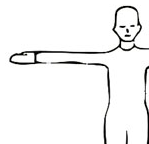
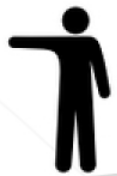
extended pretzel

diff --git a/drums/warmup.md b/drums/warmup.md
@@ -30,13 +30,15 @@ Stretch your arms in front, holding two sticks. Bend your wrists down and up con
 
 Stretch your arm to the side, holding two sticks, extended (not parallel). Rotate them like a propeller in one direction, than other.
 
-<img src="/img/propeller.jpg" />
+<img src="/img/propeller.png" />
 
 ### 5. Both Arms
 
 This is an extension of “the Pretzel”. After Pretzel stretch, lift your arms up vertically, then bow the elbows and put the sticks behind the head. Repeat for 9 times. The last time keep the hands in position for ~10 seconds.
 
 - [the Pretzel](https://flypaper.soundfly.com/write/wrist-and-hand-exercises-for-drummers/)
+
+<img src="/img/extended-pretzel.png" />
 
 ### Other
 
